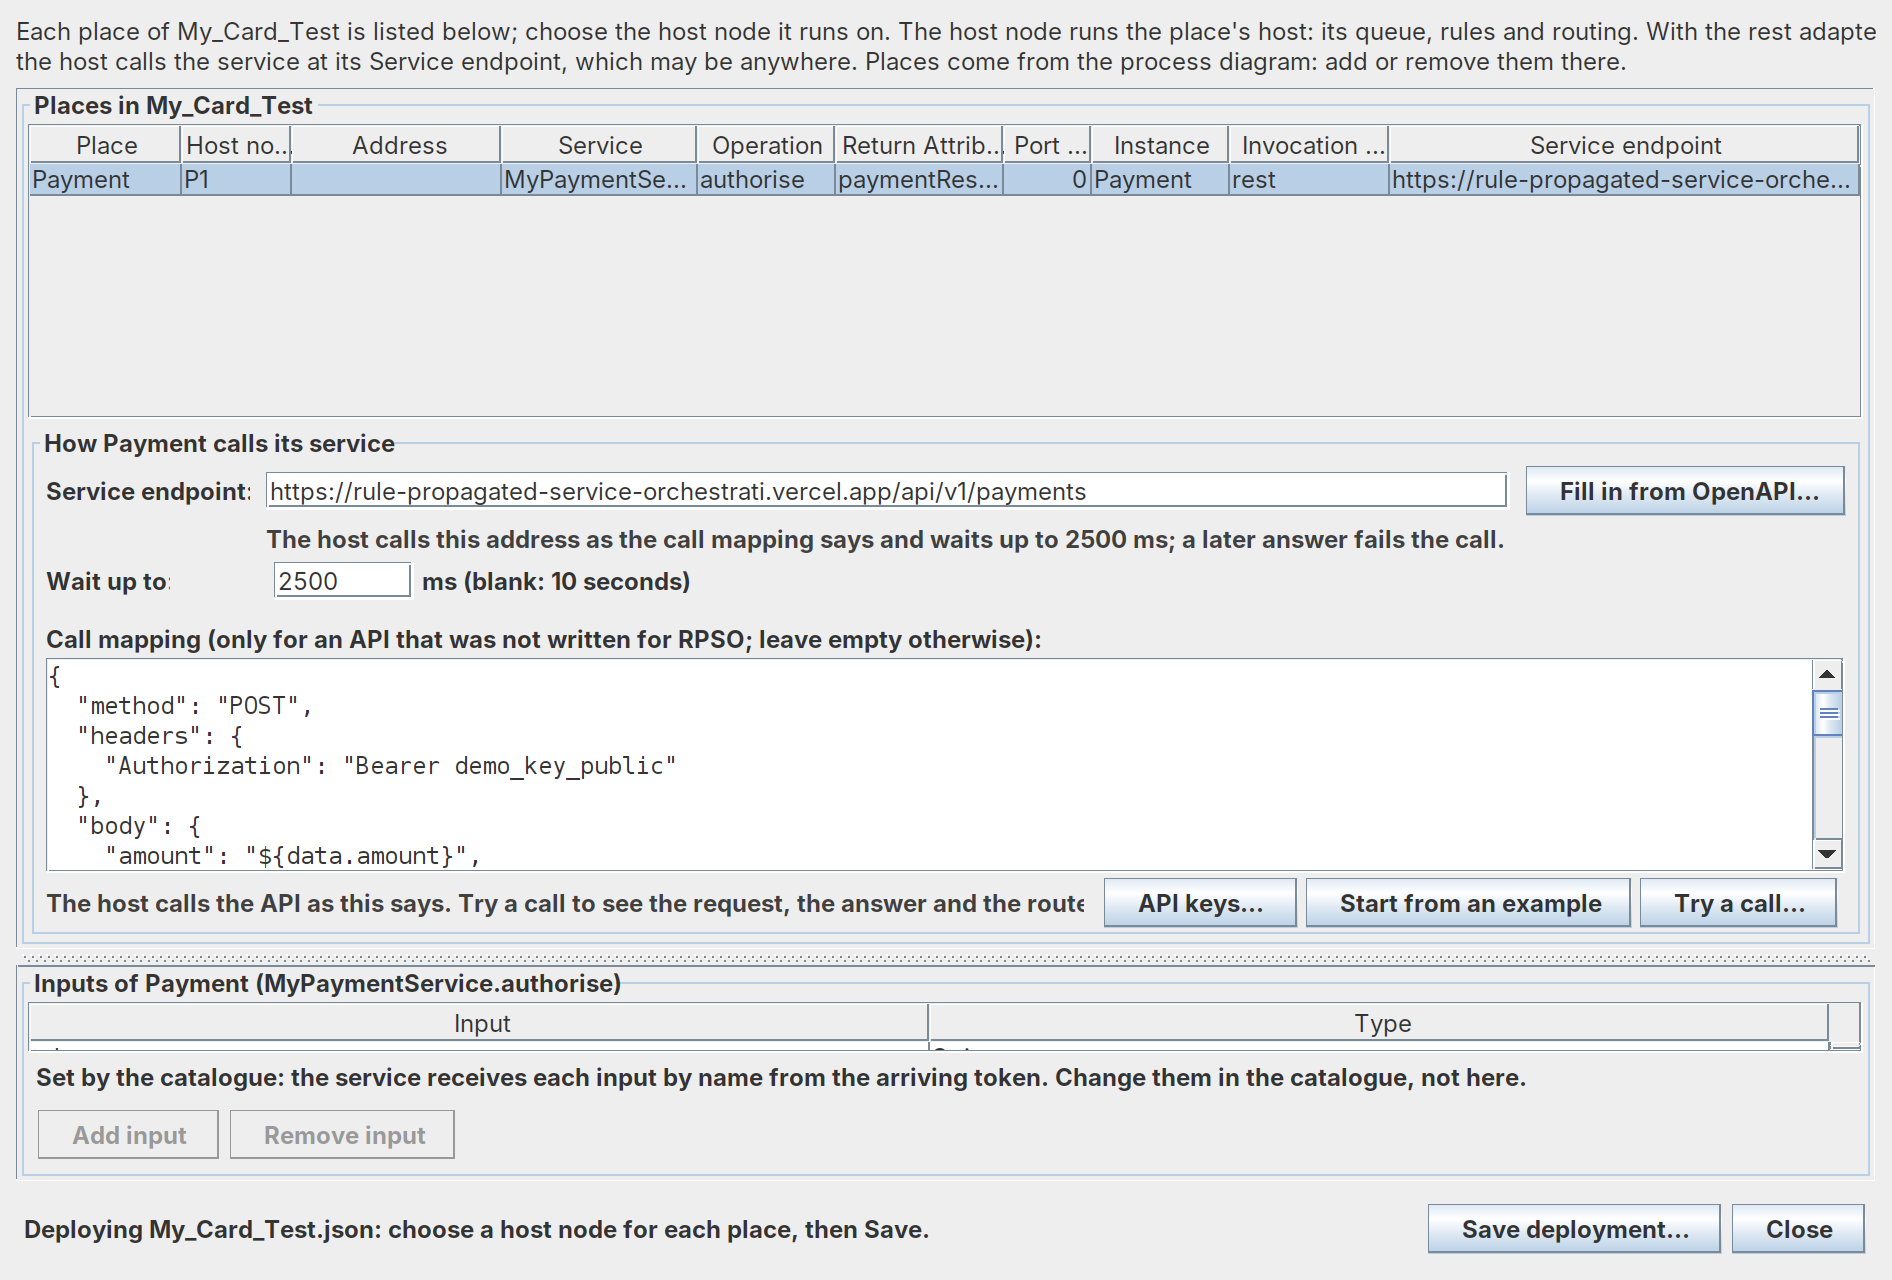
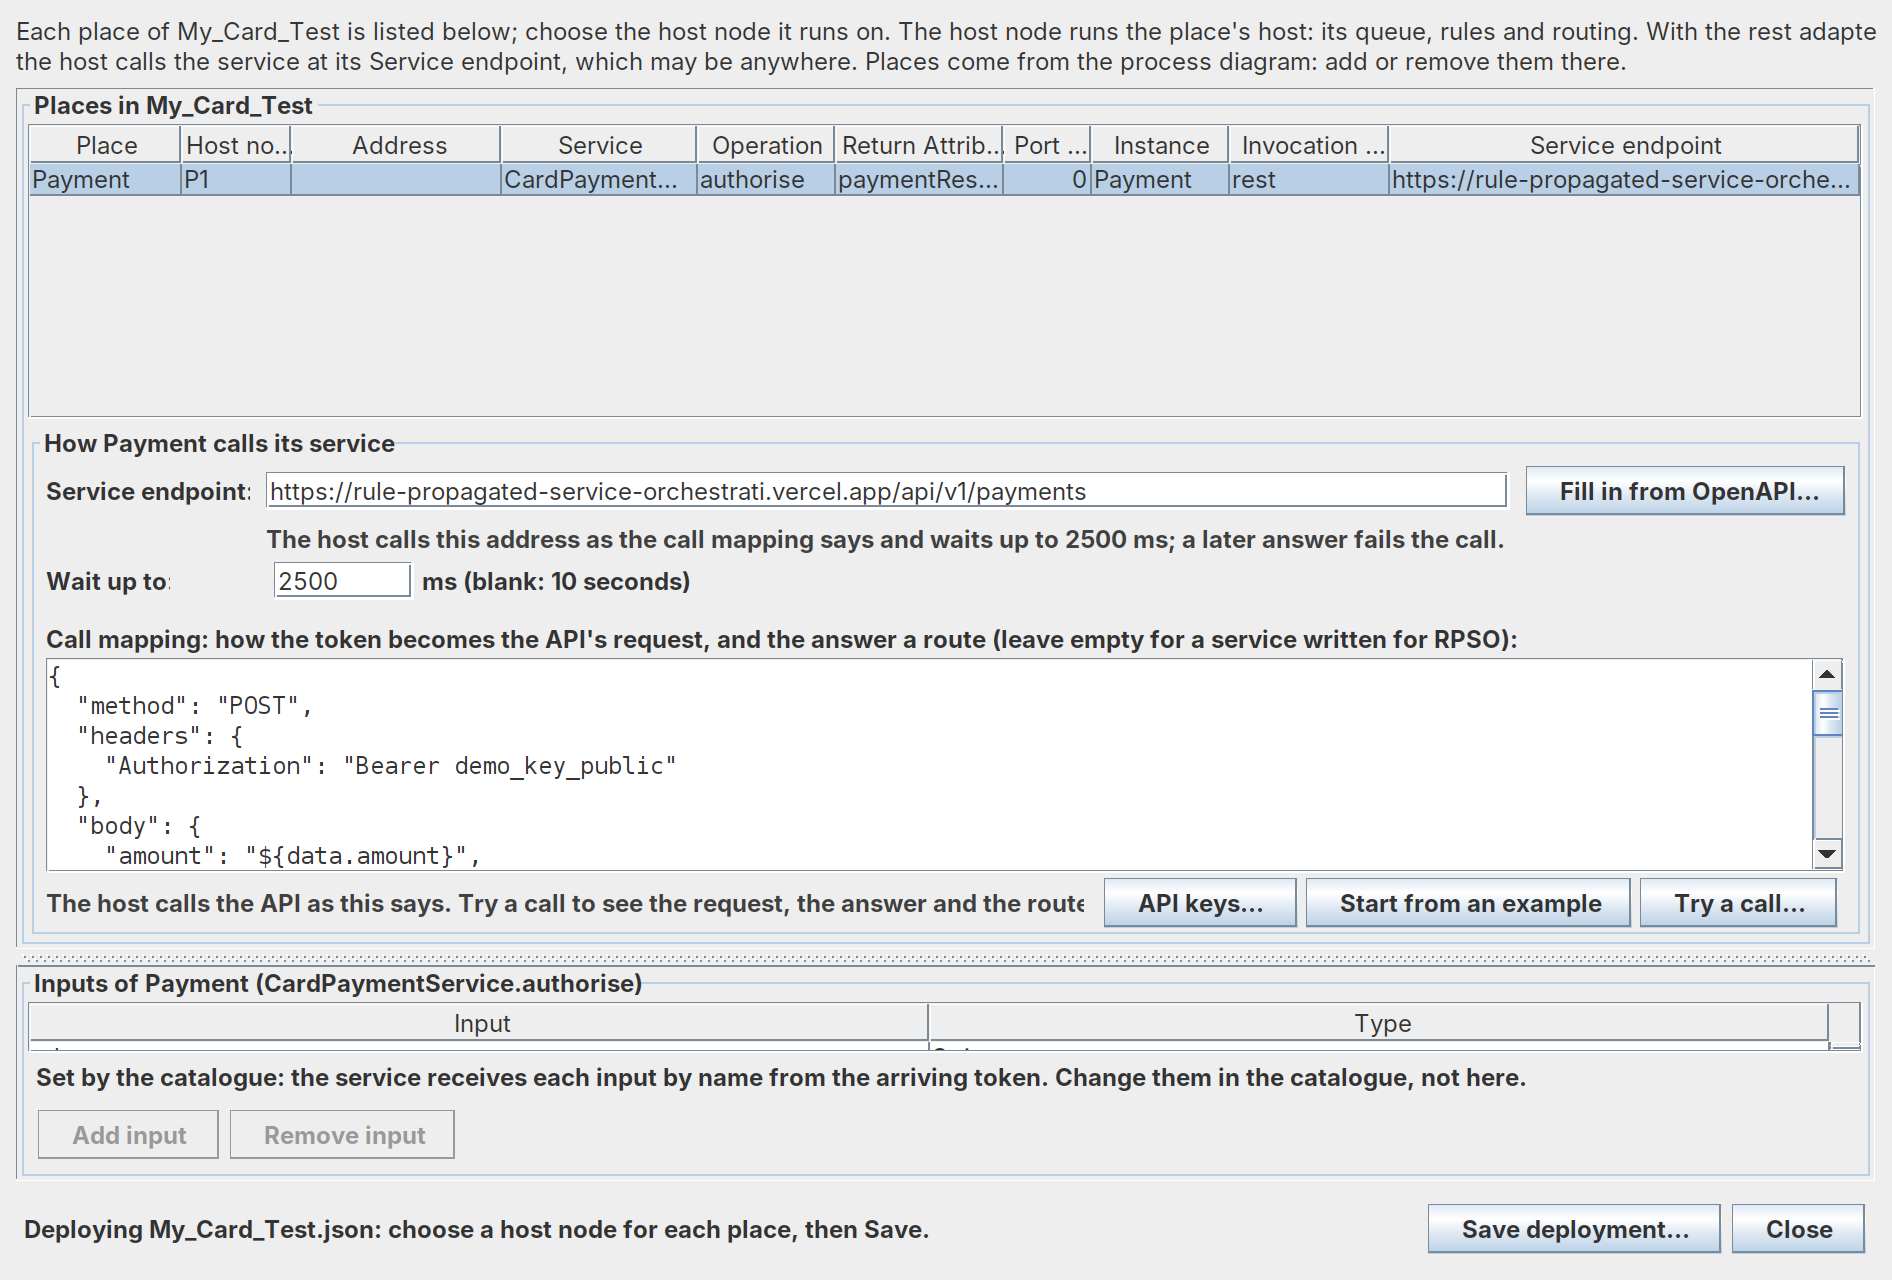
Tutorial Example 5: complete on its own, from starting the editor (#222)
Example 5 is linked from the README, so a reader arrives there first and will
not read Example 4. It no longer starts from Example 4's process: it starts the
editor, creates the process in its own domain (mycards), draws it, describes
CardPaymentService, sets the guards with the answer buttons, then gives the
tokens their data, deploys with the call mapping, tries a call and runs. Its
files table lists every file the example makes.

Claude-Session: https://claude.ai/code/session_01MVTiJmVTo6whUToqMfkWLi

diff --git a/Tutorial.md b/Tutorial.md
@@ -416,33 +416,77 @@ Inside RPSO, a workflow moves as tokens: each token carries its data from host t
 rules installed from your model. A Place reaches a service outside through an adapter. With the `rest` adapter, the
 Place's host turns the arriving token into an HTTP call, and turns the service's answer back into a result and a route.
 
-The payment service in Example 4 was written for RPSO. It accepts the token as its request and names the route in its
-answer, so the adapter has nothing to translate. Most services were not written for RPSO. A card-payments API, for
-example, expects its own fields and a key, answers with its own status, and declines with HTTP 402. For such an API you
-give the adapter a **call mapping**: which of the token's fields go into the request, and which part of the answer picks
-the route. Nothing in the API changes. The API here is this project's mock of a typical one, running on Vercel
-([`examples/rest/card-payments.js`](examples/rest/card-payments.js)). It declines every 8th payment and is unavailable
-for every 13th.
+A service written for RPSO accepts the token as its request and names the route in its answer, so the adapter has
+nothing to translate. Most services were not written for RPSO. A card-payments API, for example, expects its own
+fields and a key, answers with its own status, and declines with HTTP 402. For such an API you give the adapter a
+**call mapping**: which of the token's fields go into the request, and which part of the answer picks the route.
+Nothing in the API changes.
 
-Your computer needs internet access for this example.
+Here you build a one-step payment test that calls such an API as it is: an event generator sends orders, a `Payment`
+place calls the API, and each order ends as paid or declined. The API is this project's mock of a typical one, running
+on Vercel ([`examples/rest/card-payments.js`](examples/rest/card-payments.js)). It declines every 8th payment and is
+unavailable for every 13th.
 
-### Start from Example 4
+**Before you start:** you need a JDK (15 or later), the repository's projects imported into Eclipse, and internet
+access.
 
-1. Open `My_Payment_Test.json` and choose **File → Save Process Definition As...**. Save it beside the original as
-   `My_Card_Test.json`.
+### Create the process
 
-   The copy gets its own deployment, `ServiceDeploymentFolder/mypayments/My_Card_Test.json`, so what you change here
-   leaves Example 4 as it is. (If you have not done Example 4, follow its steps 1 to 9, saving the process as
-   `My_Card_Test.json`.)
+1. Start the editor: in Eclipse, run `com.editor.ProcessEditor` (project `btsn.workflowEditor`) as a Java application.
+2. Choose **File → New → Process Definition**.
+3. Choose **File → Save Process Definition As...** and save it as
+   `btsn.common/ProcessDefinitionFolder/mycards/Workflow/My_Card_Test.json`. Use the dialog's **New Folder** button to
+   make `mycards` and, inside it, `Workflow`.
+
+   The folder under `ProcessDefinitionFolder`, here `mycards`, is the process's **domain**. It decides the catalogue
+   your service goes into and where the editor puts every other file it makes, so it is the only location you choose.
+
+### Draw it
+
+4. Add the elements: click the tool in the palette (top left), click the canvas, then type the **Label** in the
+   Attributes panel.
+   - **Event Generator** `PAYMENTS`;
+   - **Transition** `T_in_Payment`, **Place** `Payment`, **Transition** `T_out_Payment`, in a row;
+   - **Transition** `Paid` and **Transition** `Declined`, to the right of `T_out_Payment`.
+5. Connect them with **Arrow (drag)**:
+   - `PAYMENTS` → `T_in_Payment` → `Payment` → `T_out_Payment`
+   - `T_out_Payment` → `Paid`
+   - `T_out_Payment` → `Declined`
+6. Set the details:
+   - `T_in_Payment`: **Node Type** `EdgeNode`, **Buffer** `40` (room for payments to queue);
+   - `T_out_Payment`: **Node Type** `GatewayNode` (it sends each payment along the arrow its answer picks);
+   - `Paid` and `Declined`: **Node Type** `TerminateNode`.
+7. Save the process. The red dot on `Payment` means it has no service yet.
+
+### Describe the service
+
+8. Right-click `Payment` and choose **Choose/Create catalogue...**. **Create a catalogue for a new domain** is already
+   chosen, with `mycards` filled in. Click **OK**.
+9. Right-click `Payment` again and choose **Create New Service in Mycards.json...**. Fill in the form:
+
+   | Field | Enter | Why |
+   |---|---|---|
+   | **Service** | `CardPaymentService` | Your name for the API in this process |
+   | **Operation** | `authorise` | What the place asks it to do |
+   | **What it does** / **What it returns** | In words | Shown wherever the service is chosen |
+   | **Inputs** | `token` | The event generator sends each order under the name `token` |
+   | **Return attribute** | `paymentResult` | The name the API's answer is published under |
+   | **Routes on** | `paid, declined` | The outcomes the process routes on |
+   | **How it runs** | **A service called over REST, in any language** | The API runs at its own address |
+
+   Click **Add to Mycards.json**.
+10. Click the arrow from `T_out_Payment` to `Paid` and, under **The service answers**, click **paid**. Click the arrow
+    to `Declined` and click **declined**. Each click sets the arrow's guard and label.
+11. Click **Validate**, then save the process.
 
 ### Give the tokens their data
 
 The API needs each payment's amount, currency, card and order number. A token carries what its event generator's
 **token data file** gives it.
 
-2. Select `PAYMENTS`. Set **Token Data File Name** to `PaymentService.json`.
-3. Click **Open...** to see the file and, under it, the data the first tokens will carry: order 1 is
-   `{"orderId": "ORD-1", "amount": 84.5, "currency": "AUD", "card": "visa-4242", ...}`. Close it and save the process.
+12. Select `PAYMENTS`. Set **Token Data File Name** to `PaymentService.json`.
+13. Click **Open...** to see the file and, under it, the data the first tokens will carry: order 1 is
+    `{"orderId": "ORD-1", "amount": 84.5, "currency": "AUD", "card": "visa-4242", ...}`. Close it and save the process.
 
 <img src="images/ex5-token-data.png" width="300" alt="The event generator's Attributes: Label PAYMENTS, Rate 1000 ms, Version v001, Token Data File Name PaymentService.json with Open... and New... under it.">
 
@@ -450,47 +494,48 @@ For your own service, **New...** makes a file of your own, started from `Example
 
 ### Tell the host how to call the API
 
-4. Click **Deploy** and select Payment's row. In **How Payment calls its service**, change the **Service endpoint** to
-   `https://rule-propagated-service-orchestrati.vercel.app/api/v1/payments`. Keep **Wait up to** `2500` ms.
-5. Click **Start from an example**. The **Call mapping** box fills with the mapping for this API:
+14. Click **Deploy**. Payment's row is already on the `rest` adapter, because the service is called over REST. Choose
+    **Host node** `P1`. In **How Payment calls its service**, enter the **Service endpoint**
+    `https://rule-propagated-service-orchestrati.vercel.app/api/v1/payments` and set **Wait up to** `2500` ms.
+15. Click **Start from an example**. The **Call mapping** box fills with the mapping for this API:
 
-   ```json
-   {
-     "method": "POST",
-     "headers": {"Authorization": "Bearer demo_key_public"},
-     "body": {"amount": "${data.amount}", "currency": "${data.currency}", "card": "${data.card}", "reference": "${data.orderId}"},
-     "route": {"field": "status", "values": {"succeeded": "paid", "declined": "declined"}},
-     "statusRoutes": {"402": "declined"}
-   }
-   ```
+    ```json
+    {
+      "method": "POST",
+      "headers": {"Authorization": "Bearer demo_key_public"},
+      "body": {"amount": "${data.amount}", "currency": "${data.currency}", "card": "${data.card}", "reference": "${data.orderId}"},
+      "route": {"field": "status", "values": {"succeeded": "paid", "declined": "declined"}},
+      "statusRoutes": {"402": "declined"}
+    }
+    ```
 
-   | Part | What it tells the host |
-   |---|---|
-   | `headers` | Send the API's key. This mock's key is public on purpose; a real key is kept out of the deployment (see [Point it at your own API](#point-it-at-your-own-api)) |
-   | `body` | Build the request the API expects. On the left of each line is the **API's** name for a field; on the right, `${data.…}` names the **token's** field that fills it. The API calls the order number `reference`; the token calls it `orderId` |
-   | `route` | The answer's `status` picks the arrow: `succeeded` takes `paid`, `declined` takes `declined` (your guards) |
-   | `statusRoutes` | HTTP 402 is the API's answer for a declined card, not a failure, so it takes `declined` too |
+    | Part | What it tells the host |
+    |---|---|
+    | `headers` | Send the API's key. This mock's key is public on purpose; a real key is kept out of the deployment (see [Point it at your own API](#point-it-at-your-own-api)) |
+    | `body` | Build the request the API expects. On the left of each line is the **API's** name for a field; on the right, `${data.…}` names the **token's** field that fills it. The API calls the order number `reference`; the token calls it `orderId` |
+    | `route` | The answer's `status` picks the arrow: `succeeded` takes `paid`, `declined` takes `declined` (your guards) |
+    | `statusRoutes` | HTTP 402 is the API's answer for a declined card, not a failure, so it takes `declined` too |
 
-   If a `${data.…}` names a field the tokens do not carry, the note under the box turns red and lists the fields they do.
+    If a `${data.…}` names a field the tokens do not carry, the note under the box turns red and lists the fields they do.
 
 ![The Deploy panel for My_Card_Test: How Payment calls its service, with the card-payments address as Service endpoint, Wait up to 2500 ms, the call mapping in the box, and the API keys..., Start from an example and Try a call... buttons.](images/ex5-deploy.png)
 
-6. Click **Try a call...**, then **Send**. This is one real call, made exactly as the host will make it, before you run
-   anything. Expect the request with the order's amount, card and `"reference": "ORD-1"`, and **ROUTE paid**.
-7. In the token box, change `ORD-1` to `ORD-8` and **Send** again: HTTP 402, **ROUTE declined**. Try `ORD-13`: the
-   call fails with `answered HTTP 503`, and a run would stop that payment at the place with that reason.
+16. Click **Try a call...**, then **Send**. This is one real call, made exactly as the host will make it, before you run
+    anything. Expect the request with the order's amount, card and `"reference": "ORD-1"`, and **ROUTE paid**.
+17. In the token box, change `ORD-1` to `ORD-8` and **Send** again: HTTP 402, **ROUTE declined**. Try `ORD-13`: the
+    call fails with `answered HTTP 503`, and a run would stop that payment at the place with that reason.
 
 ![Try a call for order ORD-1: the request sent (POST to the card-payments address with the key and the body built from the token), the result published under paymentResult, and ROUTE paid.](images/ex5-try.png)
 
-8. Click **Save deployment...**.
+18. Click **Save deployment...**, accepting the name it suggests. Then save the process.
 
 ### Run it
 
-9. Click **Build**. Set **Tokens per generator** to `16`, then click **Create**. (Build makes the launcher from the saved
-   deployment; Run on hosts says so if you save the deployment again later without building.)
-10. Click **Run on hosts**, then **Run**. Expect `v001: 16 generated, 15 completed`: 13 paid, 2 declined (orders 8 and
+19. Click **Build**. Set **Tokens per generator** to `16`, then click **Create**. (Build makes the launcher from the saved
+    deployment; Run on hosts says so if you save the deployment again later without building.)
+20. Click **Run on hosts**, then **Run**. Expect `v001: 16 generated, 15 completed`: 13 paid, 2 declined (orders 8 and
     16), and 1 failed at Payment with `answered HTTP 503` (order 13).
-11. Click **▶ Replay the recorded run** to watch the payments take their routes.
+21. Click **▶ Replay the recorded run** to watch the payments take their routes.
 
 ### Use the API's published definition instead
 
@@ -523,11 +568,16 @@ reads one and fills in the endpoint and the mapping for the call you choose. Try
 
 | File | Where |
 |---|---|
-| The process | `btsn.common/ProcessDefinitionFolder/mypayments/Workflow/My_Card_Test.json` |
-| Its deployment, with the endpoint and call mapping | `btsn.common/ServiceDeploymentFolder/mypayments/My_Card_Test.json` |
+| The process | `btsn.common/ProcessDefinitionFolder/mycards/Workflow/My_Card_Test.json` |
+| The catalogue, with `CardPaymentService` | `btsn.common/BusinessServiceDefinitions/mycards/Mycards.json`, listed in `btsn.services/packaging.json` |
+| The deployment, with the endpoint and call mapping | `btsn.common/ServiceDeploymentFolder/mycards/My_Card_Test.json` |
+| The launcher, its schedule and its deployment profile | `btsn.petrinet.ProjectLoader/My_Card_Test_BuildAndRun.xml`, `btsn.common.eventgenerators/EventTriggeringFile/My_Card_Test_BuildAndRun.csv` and `btsn.services/deployments/mycards/My_Card_TestDeployment.json` |
+| The run's analysis | `btsn.common/AnalysisFolder/Mycards/Analysis_My_Card_Test.txt` |
 | A token data file you make with **New...** | `btsn.common.eventgenerators/TokenFormats/<name>.json` |
 | API keys | `~/.rpso/api-keys.properties` on each computer, never in the repository |
-| The launcher and the run's analysis | As in [Example 4](#where-your-files-go), named after `My_Card_Test` |
+
+To start again, delete these files; the catalogue's line in `packaging.json` goes with it (the editor offers to remove it
+the next time you run).
 
 ### Learn more
 
